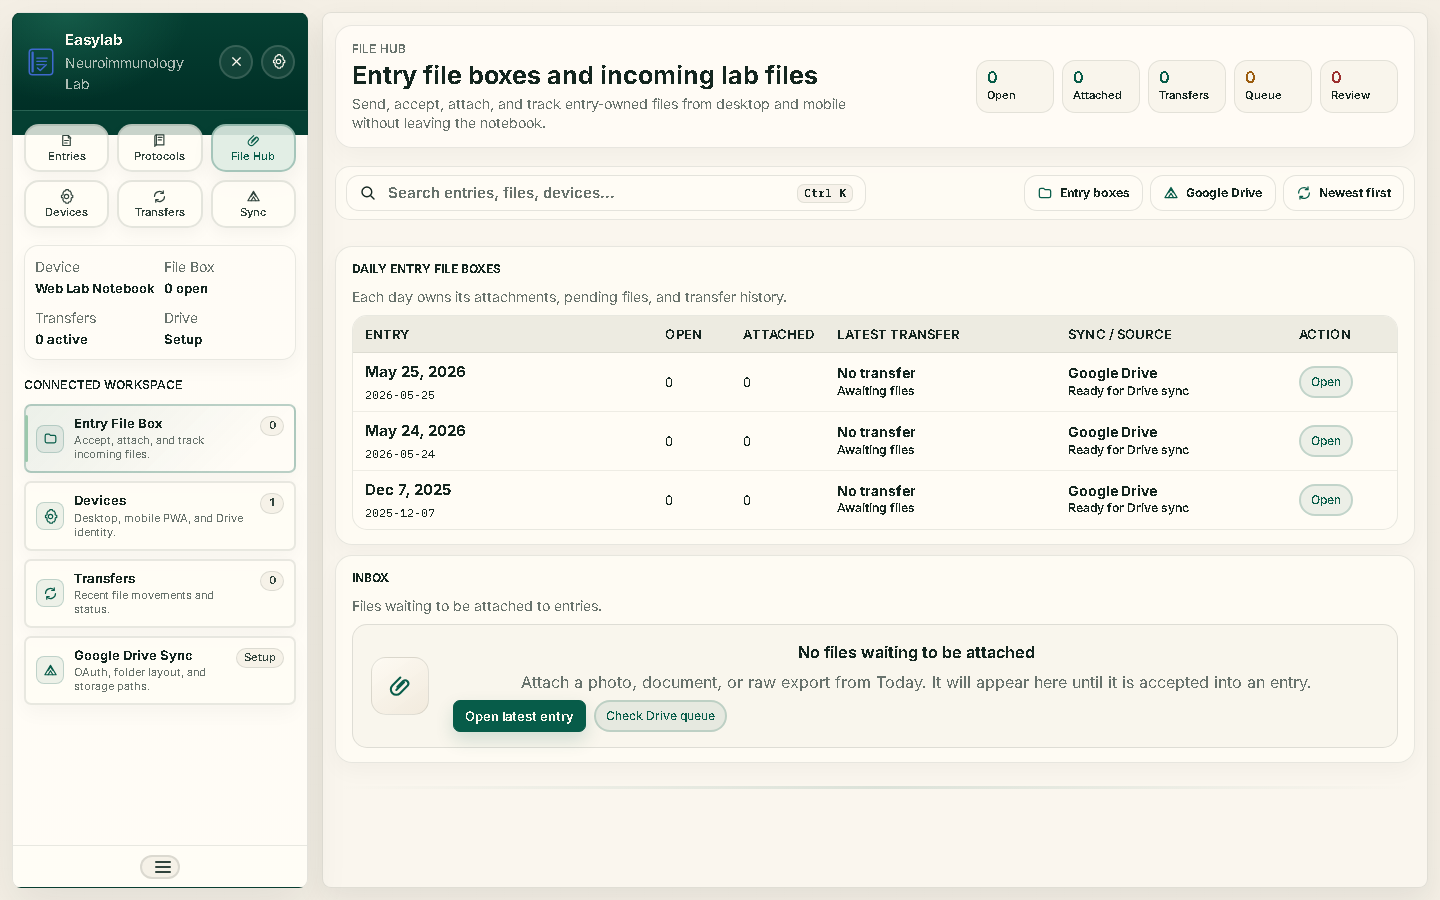
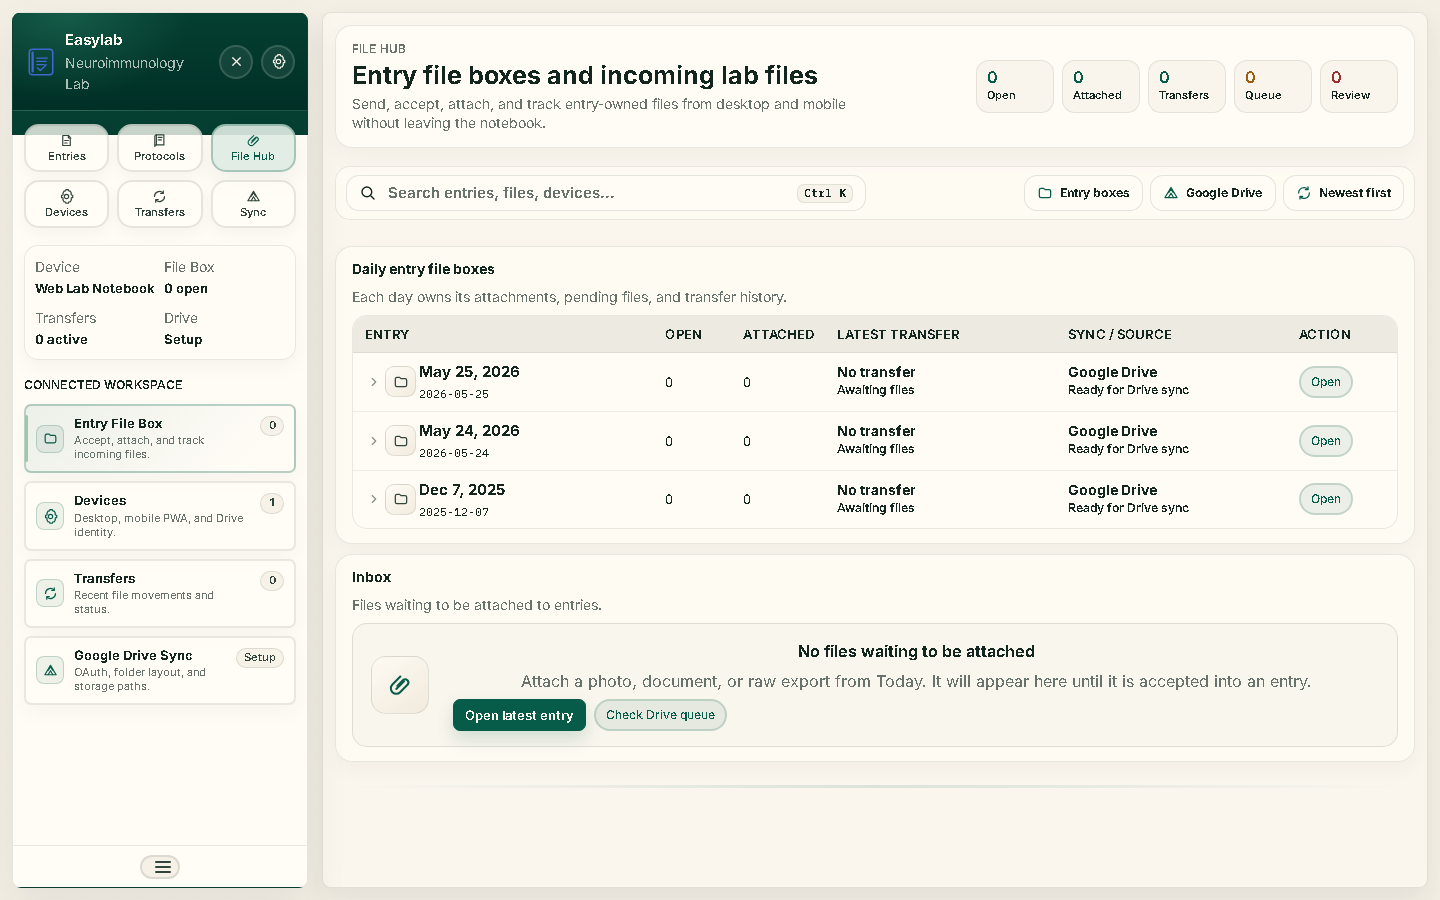
Refine File Hub reference details

diff --git a/web/src/App.css b/web/src/App.css
@@ -13913,3 +13913,61 @@ kbd {
     color: var(--text-2);
   }
 }
+
+/* File Hub table reference details: row affordances and calm title-case section labels. */
+[data-testid='file-hub-pane'] .connected-card-head .section-title,
+[data-testid='file-hub-pane'] .connected-card > .section-title {
+  text-transform: none;
+  letter-spacing: 0;
+  font-size: 14px;
+  line-height: 1.25;
+}
+
+[data-testid='file-hub-pane'] .filehub-table .filehub-entry-cell {
+  display: grid;
+  grid-template-columns: 18px 32px minmax(0, 1fr);
+  align-items: center;
+  gap: 10px;
+}
+
+[data-testid='file-hub-pane'] .filehub-row-expand {
+  display: inline-flex;
+  justify-content: center;
+  color: color-mix(in srgb, var(--text-3) 82%, transparent);
+}
+
+[data-testid='file-hub-pane'] .filehub-row-expand .ui-icon {
+  width: 14px;
+  height: 14px;
+}
+
+[data-testid='file-hub-pane'] .filehub-row-folder {
+  display: inline-grid;
+  width: 31px;
+  height: 31px;
+  place-items: center;
+  border: 1px solid rgba(32, 48, 42, 0.14);
+  border-radius: 9px;
+  background:
+    linear-gradient(145deg, rgba(255, 252, 245, 0.95), rgba(239, 231, 217, 0.72)),
+    var(--surface-2);
+  color: var(--text-2);
+}
+
+[data-testid='file-hub-pane'] .filehub-row-folder .ui-icon {
+  width: 16px;
+  height: 16px;
+}
+
+[data-testid='file-hub-pane'] .filehub-row-title {
+  display: grid;
+  gap: 2px;
+  min-width: 0;
+}
+
+[data-testid='file-hub-pane'] .filehub-row-title strong,
+[data-testid='file-hub-pane'] .filehub-row-title small {
+  overflow: hidden;
+  text-overflow: ellipsis;
+  white-space: nowrap;
+}

diff --git a/web/src/App.tsx b/web/src/App.tsx
@@ -7780,9 +7780,13 @@ function FileHubPane({
           ) : (
             entryRows.map(({ entry, openCount, attachedCount, latestTransfer }) => (
               <div className="connected-table-row" key={entry.id}>
-                <span data-label="Entry">
-                  <strong>{entry.title}</strong>
-                  <small>{entry.dateBucket}</small>
+                <span className="filehub-entry-cell" data-label="Entry">
+                  <span className="filehub-row-expand" aria-hidden="true"><UiIcon name="chevronRight" /></span>
+                  <span className="filehub-row-folder" aria-hidden="true"><UiIcon name="folder" /></span>
+                  <span className="filehub-row-title">
+                    <strong>{entry.title}</strong>
+                    <small>{entry.dateBucket}</small>
+                  </span>
                 </span>
                 <span data-label="Open">{openCount}</span>
                 <span data-label="Attached">{attachedCount}</span>
